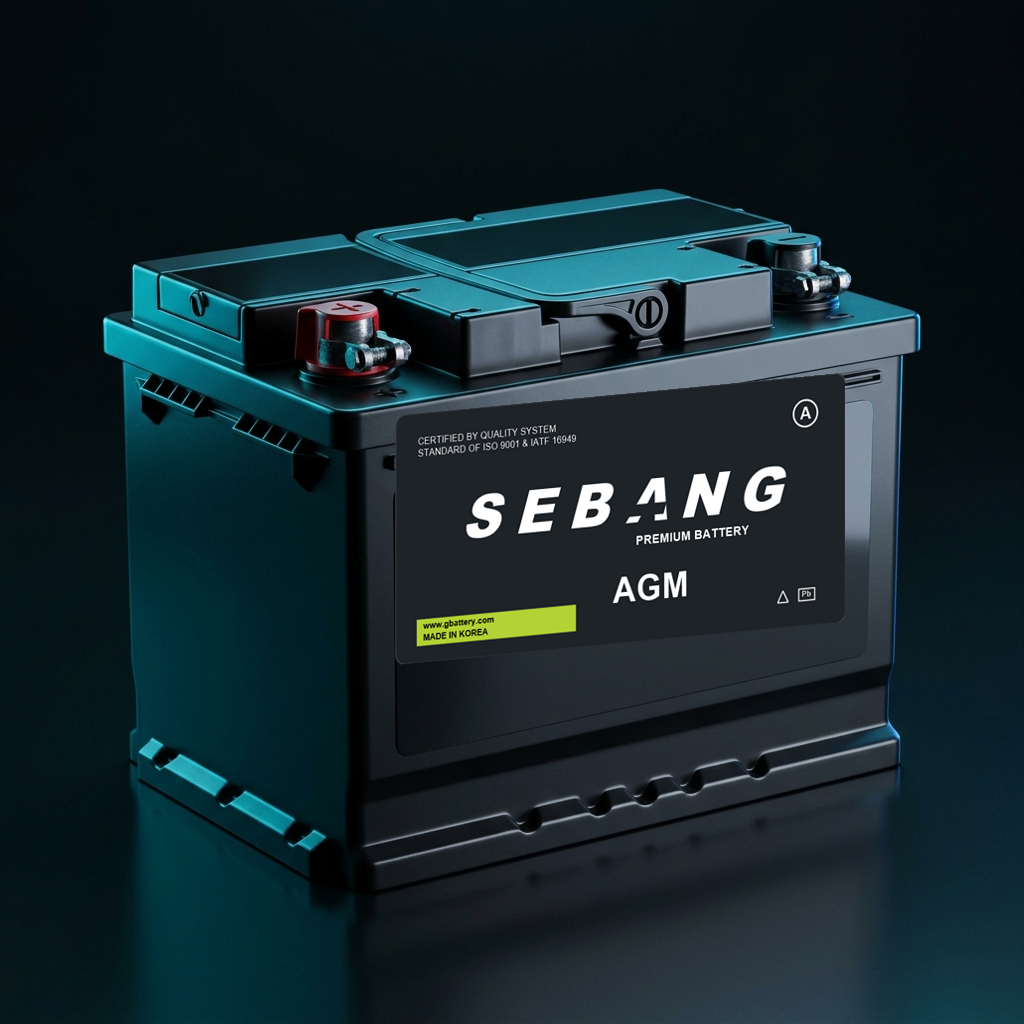
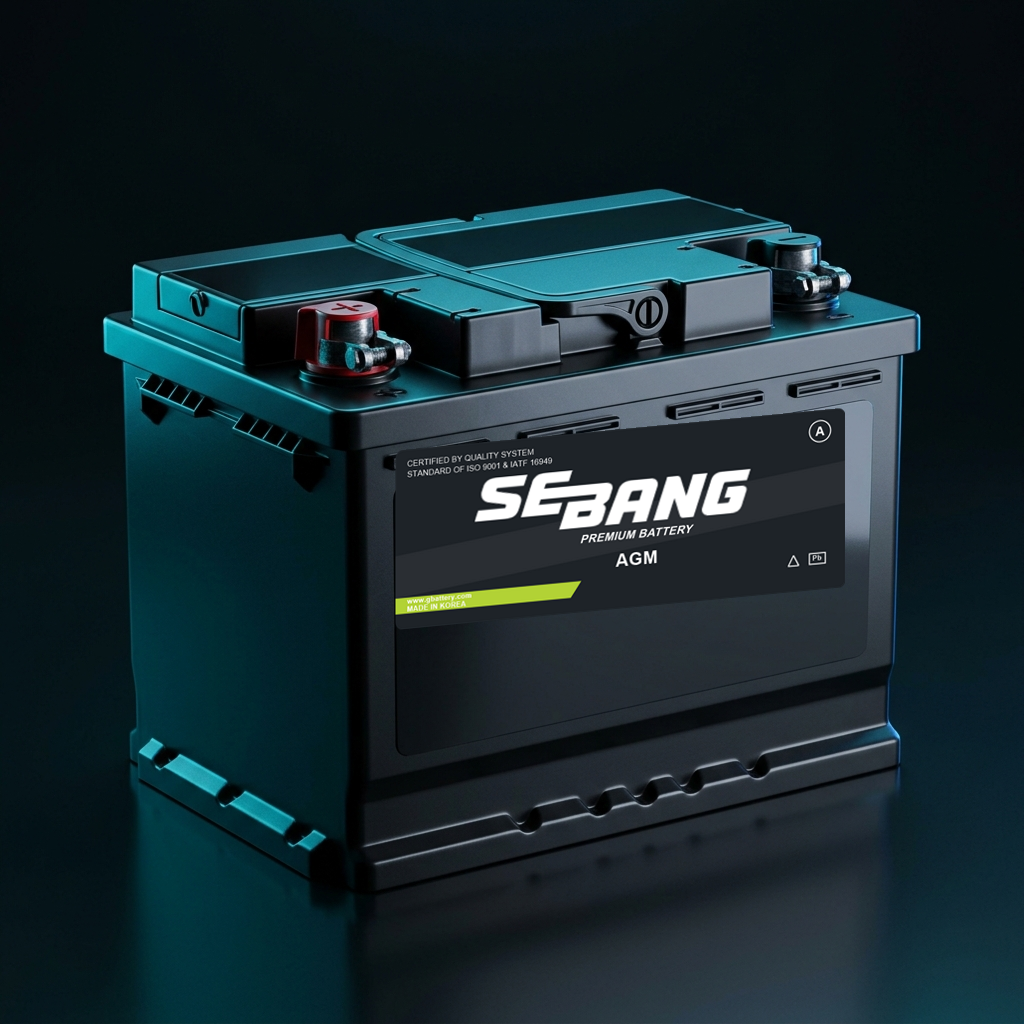
fix: apply perfectly proportioned authentic SEBANG label to 3D batteries and fix perspective stretching

Changed region(s): [[0.375, 0.3438, 0.8438, 0.5938], [0.375, 0.5625, 0.5625, 0.6562], [0.75, 0.5312, 0.8125, 0.5938]]

diff --git a/index.html b/index.html
@@ -6,7 +6,7 @@
     <title>Sentric | Her Yolculukta Güvenilir Güç</title>
     <meta name="description" content="Sentric, en zorlu koşullarda bile her yolculuğunuzda güvenilir, yüksek performanslı ve uzun ömürlü otomotiv aküleri sunar.">
     <link rel="stylesheet" href="style.css?v=20260620d">
-    <link rel="stylesheet" href="css-battery.css?v=8">
+    <link rel="stylesheet" href="css-battery.css?v=9">
     <link href="https://fonts.googleapis.com/css2?family=Inter:wght@300;400;600;800&family=Outfit:wght@400;600;800&display=swap" rel="stylesheet">
     <link rel="stylesheet" href="https://cdnjs.cloudflare.com/ajax/libs/font-awesome/6.4.0/css/all.min.css">
 </head>
@@ -98,7 +98,7 @@
                 </div>
                 <div class="about-image slide-in-right">
                     <div class="image-wrapper glassmorphism">
-                        <img src="assets/battery_sebang_final.png?v=8" alt="Seabang Premium" class="floating">
+                        <img src="assets/battery_sebang_final.png?v=9" alt="Seabang Premium" class="floating">
                     </div>
                 </div>
             </div>
@@ -120,7 +120,7 @@
                     <!-- Tüm Aküler -->
                     <a href="#products" class="sebang-card glassmorphism fade-in-up" draggable="false" style="text-decoration:none;">
                         <div class="sebang-img-wrapper">
-                            <img src="assets/battery_sebang_final.png?v=8" alt="Tüm Aküler" class="battery-base" style="width: 100%; height: auto;">
+                            <img src="assets/battery_sebang_final.png?v=9" alt="Tüm Aküler" class="battery-base" style="width: 100%; height: auto;">
                         </div>
                         <div class="sebang-card-content">
                             <div class="sebang-info">
@@ -134,7 +134,7 @@
                     <!-- Otomotiv -->
                     <a href="#products" class="sebang-card glassmorphism fade-in-up" draggable="false" style="transition-delay: 0.1s; text-decoration:none;">
                         <div class="sebang-img-wrapper">
-                            <img src="assets/battery_sebang_final.png?v=8" alt="Otomotiv Aküleri" class="battery-base" style="width: 100%; height: auto;">
+                            <img src="assets/battery_sebang_final.png?v=9" alt="Otomotiv Aküleri" class="battery-base" style="width: 100%; height: auto;">
                         </div>
                         <div class="sebang-card-content">
                             <div class="sebang-info">
@@ -148,7 +148,7 @@
                     <!-- Ticari -->
                     <a href="#products" class="sebang-card glassmorphism fade-in-up" draggable="false" style="transition-delay: 0.2s; text-decoration:none;">
                         <div class="sebang-img-wrapper">
-                            <img src="assets/battery_sebang_final.png?v=8" alt="Ticari Araç Aküleri" class="battery-base" style="width: 100%; height: auto;">
+                            <img src="assets/battery_sebang_final.png?v=9" alt="Ticari Araç Aküleri" class="battery-base" style="width: 100%; height: auto;">
                         </div>
                         <div class="sebang-card-content">
                             <div class="sebang-info">
@@ -162,7 +162,7 @@
                     <!-- Marin ve Karavan -->
                     <a href="#products" class="sebang-card glassmorphism fade-in-up" draggable="false" style="transition-delay: 0.3s; text-decoration:none;">
                         <div class="sebang-img-wrapper">
-                            <img src="assets/battery_sebang_final.png?v=8" alt="Marin ve Karavan Aküleri" class="battery-base" style="width: 100%; height: auto;">
+                            <img src="assets/battery_sebang_final.png?v=9" alt="Marin ve Karavan Aküleri" class="battery-base" style="width: 100%; height: auto;">
                         </div>
                         <div class="sebang-card-content">
                             <div class="sebang-info">
@@ -176,7 +176,7 @@
                     <!-- Bahçe ve Tarım -->
                     <a href="#products" class="sebang-card glassmorphism fade-in-up" draggable="false" style="transition-delay: 0.4s; text-decoration:none;">
                         <div class="sebang-img-wrapper">
-                            <img src="assets/battery_sebang_final.png?v=8" alt="Bahçe ve Tarım Aküleri" class="battery-base" style="width: 100%; height: auto;">
+                            <img src="assets/battery_sebang_final.png?v=9" alt="Bahçe ve Tarım Aküleri" class="battery-base" style="width: 100%; height: auto;">
                         </div>
                         <div class="sebang-card-content">
                             <div class="sebang-info">
@@ -190,7 +190,7 @@
                     <!-- Traksiyoner -->
                     <a href="#products" class="sebang-card glassmorphism fade-in-up" draggable="false" style="transition-delay: 0.5s; text-decoration:none;">
                         <div class="sebang-img-wrapper">
-                            <img src="assets/battery_sebang_final.png?v=8" alt="Traksiyoner Aküler" class="battery-base" style="width: 100%; height: auto;">
+                            <img src="assets/battery_sebang_final.png?v=9" alt="Traksiyoner Aküler" class="battery-base" style="width: 100%; height: auto;">
                         </div>
                         <div class="sebang-card-content">
                             <div class="sebang-info">
@@ -302,7 +302,7 @@
         <div class="container">
             <div class="features-wrapper">
                 <div class="features-image slide-in-left">
-                    <img src="assets/sebang_detailed_exploded_final.png?v=8" alt="Battery Internals">
+                    <img src="assets/sebang_detailed_exploded_final.png?v=9" alt="Battery Internals">
                 </div>
                 <div class="features-content slide-in-right">
                     <h4 class="section-subtitle">Kalitenin Anatomisi</h4>
